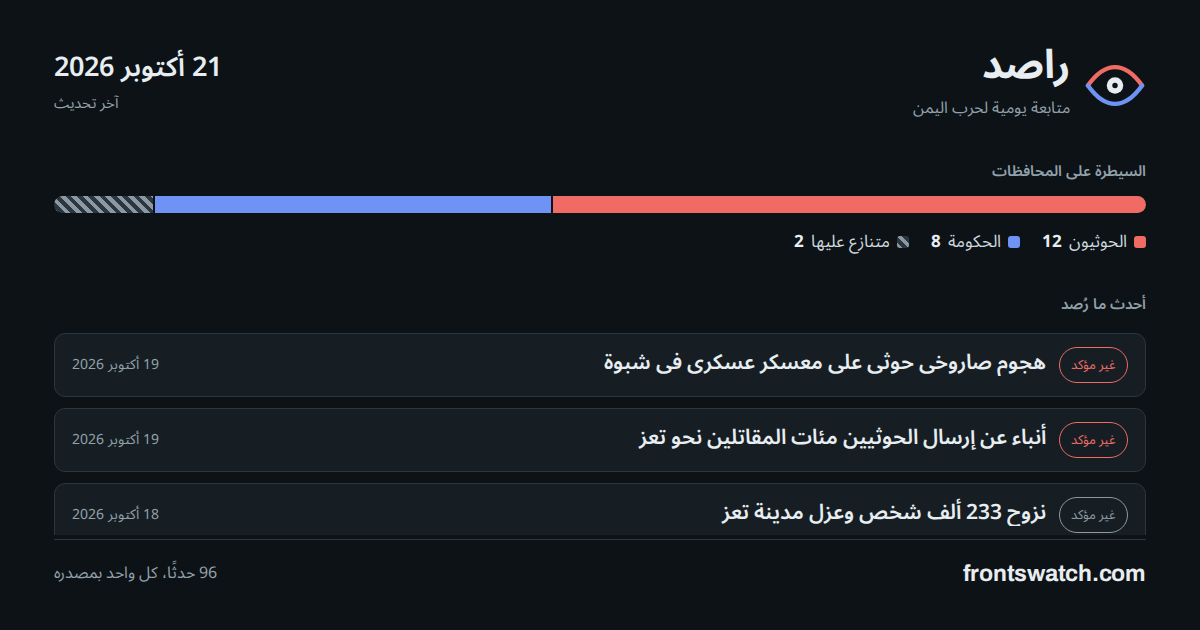
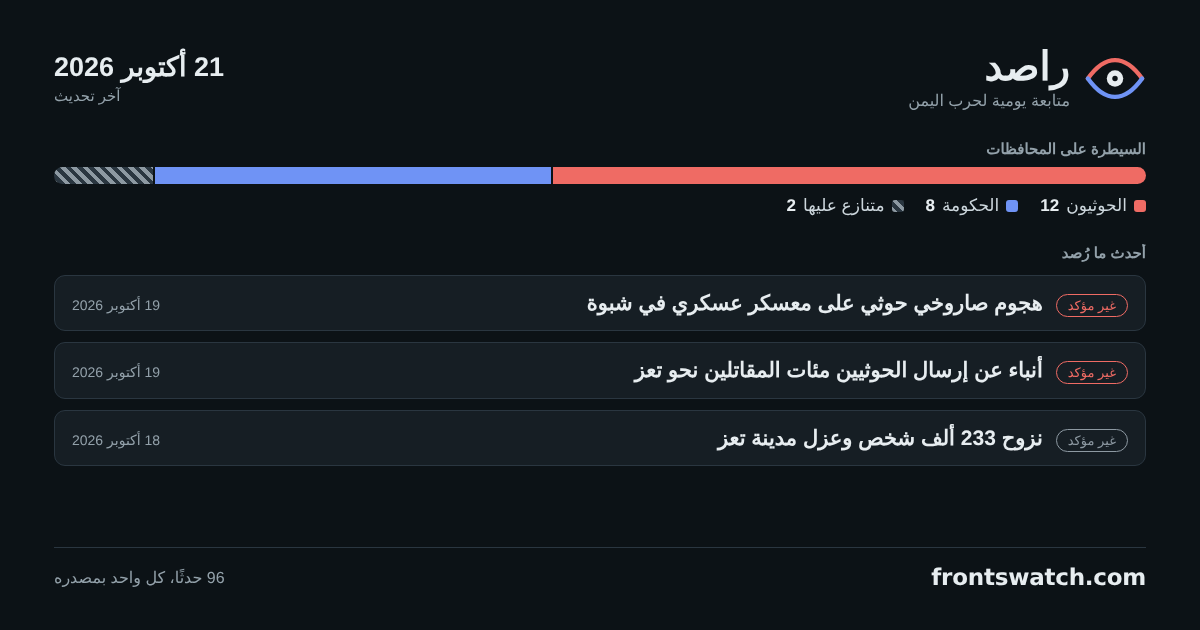
Give the share card a correct Arabic face when Google Fonts is absent
The card built in CI still rendered with a substituted face that draws
a dotless final yaa, so "صاروخي" came out looking like "صاروخى" - a
spelling error to any Arabic reader. The font stack now names the Noto
faces that fonts-noto-core installs on the runner, so a failed webfont
fetch falls back to correct Arabic rather than to whatever Chromium
picks.

Also down to three events from four: with a taller fallback face the
fourth row was clipped halfway by the frame.

Claude-Session: https://claude.ai/code/session_01W33g2DSFoKbYUJoUpPcut6

diff --git a/site/card/index.html b/site/card/index.html
@@ -6,7 +6,7 @@
 <style>
 *{box-sizing:border-box;margin:0}
 body{width:1200px;height:630px;overflow:hidden;background:#0c1216;color:#e7edf0;
-  font-family:'Noto Sans Arabic',sans-serif;display:flex;flex-direction:column;
+  font-family:'Noto Sans Arabic','Noto Naskh Arabic','Noto Sans Arabic UI','Noto Sans',sans-serif;display:flex;flex-direction:column;
   padding:46px 54px 40px;gap:0}
 .top{display:flex;align-items:center;justify-content:space-between}
 .brand{display:flex;align-items:center;gap:14px}
@@ -37,7 +37,7 @@ body{width:1200px;height:630px;overflow:hidden;background:#0c1216;color:#e7edf0;
 
 .foot{flex:none;display:flex;align-items:center;justify-content:space-between;
   border-top:1px solid #2a3640;padding-top:16px;margin-top:4px}
-.foot .u{font-family:'Archivo',sans-serif;font-size:23px;font-weight:700;letter-spacing:-.01em;direction:ltr}
+.foot .u{font-family:'Archivo','DejaVu Sans',sans-serif;font-size:23px;font-weight:700;letter-spacing:-.01em;direction:ltr}
 .foot .c{font-size:16px;color:#93a1aa}
 </style></head><body>
   <div class="top">
@@ -63,7 +63,6 @@ body{width:1200px;height:630px;overflow:hidden;background:#0c1216;color:#e7edf0;
     <div class="ev"><span class="b" style="color:#ef6b64;border-color:#ef6b64">غير مؤكد</span><span class="t">هجوم صاروخي حوثي على معسكر عسكري في شبوة</span><span class="dt">19 أكتوبر 2026</span></div>
     <div class="ev"><span class="b" style="color:#ef6b64;border-color:#ef6b64">غير مؤكد</span><span class="t">أنباء عن إرسال الحوثيين مئات المقاتلين نحو تعز</span><span class="dt">19 أكتوبر 2026</span></div>
     <div class="ev"><span class="b" style="color:#8d99a2;border-color:#8d99a2">غير مؤكد</span><span class="t">نزوح 233 ألف شخص وعزل مدينة تعز</span><span class="dt">18 أكتوبر 2026</span></div>
-    <div class="ev"><span class="b" style="color:#8d99a2;border-color:#8d99a2">مؤكد</span><span class="t">إطلاق نار على ناقلة غاز طبيعي مسال قبالة المكلا</span><span class="dt">18 أكتوبر 2026</span></div>
   </div>
 
   <div class="foot">

diff --git a/src/gen_card.py b/src/gen_card.py
@@ -69,7 +69,7 @@ CARD = """<!doctype html>
 <style>
 *{{box-sizing:border-box;margin:0}}
 body{{width:1200px;height:630px;overflow:hidden;background:#0c1216;color:#e7edf0;
-  font-family:'Noto Sans Arabic',sans-serif;display:flex;flex-direction:column;
+  font-family:'Noto Sans Arabic','Noto Naskh Arabic','Noto Sans Arabic UI','Noto Sans',sans-serif;display:flex;flex-direction:column;
   padding:46px 54px 40px;gap:0}}
 .top{{display:flex;align-items:center;justify-content:space-between}}
 .brand{{display:flex;align-items:center;gap:14px}}
@@ -100,7 +100,7 @@ body{{width:1200px;height:630px;overflow:hidden;background:#0c1216;color:#e7edf0
 
 .foot{{flex:none;display:flex;align-items:center;justify-content:space-between;
   border-top:1px solid #2a3640;padding-top:16px;margin-top:4px}}
-.foot .u{{font-family:'Archivo',sans-serif;font-size:23px;font-weight:700;letter-spacing:-.01em;direction:ltr}}
+.foot .u{{font-family:'Archivo','DejaVu Sans',sans-serif;font-size:23px;font-weight:700;letter-spacing:-.01em;direction:ltr}}
 .foot .c{{font-size:16px;color:#93a1aa}}
 </style></head><body>
   <div class="top">
@@ -155,7 +155,7 @@ def build(out_site_dir):
         f'{ACTOR[k][0]} <b>{ar_num(counts[k])}</b></span>' for k in order)
 
     # the newest events, by date
-    idx = sorted(range(len(rows)), key=lambda i: (rows[i][0], i), reverse=True)[:4]
+    idx = sorted(range(len(rows)), key=lambda i: (rows[i][0], i), reverse=True)[:3]
     cards = []
     for i in idx:
         r = rows[i]
